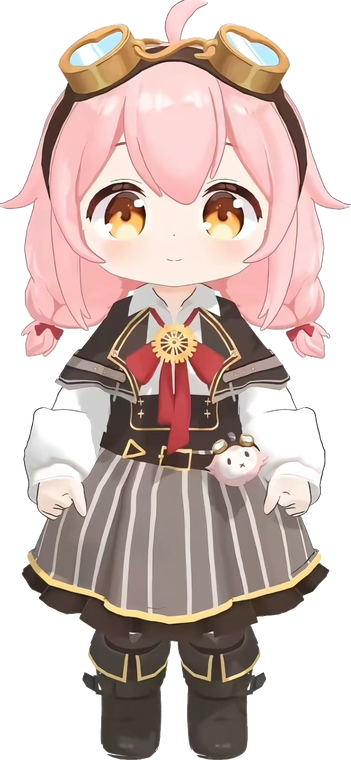
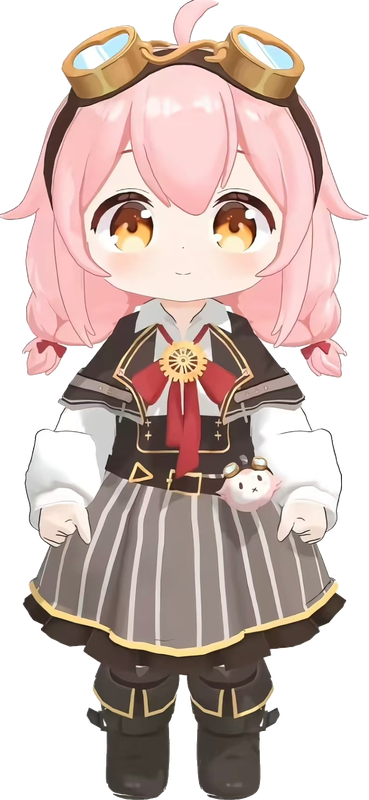
修角色尺寸：高 DPI 屏上整只跑到屏幕外，看着像没启动
资源 800px 高，原来按 1:1 画出去；但 200% 缩放的屏上 1 逻辑像素 = 2 物理像素，
于是占了整屏高度还把头顶到屏幕外。改成由 config 的 height（逻辑像素）决定画多大，
资源分辨率只影响清晰度、不影响大小。

同一个错误在腾空高度上犯了第二次：HOP 本来是写死的 12px，角色缩小后相对高度
翻三倍，呆毛被窗口顶边裁掉。现在动画里所有量都是比例，没有写死的像素。

另外：默认位置和恢复位置都会夹在屏幕内；首次运行弹一次操作提示。

diff --git a/taffy_pet/pet.py b/taffy_pet/pet.py
@@ -5,7 +5,7 @@
 """
 from pathlib import Path
 
-from PyQt5.QtCore import Qt, QPoint, QRectF, QTimer
+from PyQt5.QtCore import Qt, QRectF, QTimer
 from PyQt5.QtGui import QPainter, QPixmap
 from PyQt5.QtWidgets import QApplication, QInputDialog, QLineEdit, QMenu, QWidget
 
@@ -17,10 +17,14 @@ from .toast import Toast
 ROOT = Path(__file__).resolve().parent.parent
 ASSETS = ROOT / "assets"
 
-# 预留放大/弹跳的余量。呼吸(+0.8%)叠上弹跳拉伸(+3.0%)，760px 上最高长出约 29px，
-# 再加腾空 12px，42 够用。小了呆毛会在弹起那几帧被窗口顶边裁掉；
-# 但这个边距同时也是窗口挡桌面图标的面，所以别随手加大。
-MARGIN = 42
+# 边距是角色显示高度的比例，不是固定像素 —— 角色的放大/弹跳都是按比例缩放的，
+# 固定边距在角色调小之后会显得过大、调大之后又不够。
+#
+# 这个比例的来历：呼吸(+0.8%) 叠上弹跳拉伸(+3.0%) 是 3.8%，再加腾空（anim.py 的
+# HOP，1.6%），合起来 5.4%，留到 6.5% 有余量。小了呆毛会在弹起那几帧被窗口顶边
+# 裁掉；但这个边距同时也是窗口挡住周围桌面图标的面，所以别随手加大。
+# tools/smoke.py 会走完整条弹跳曲线来验这个余量够不够。
+MARGIN_RATIO = 0.065
 CLICK_SLOP = 6       # 位移小于这个像素数还算点击
 CLICK_MS = 500       # 按下超过这么久算长按，不算点击
 
@@ -45,7 +49,17 @@ class PetWindow(QWidget):
             raise SystemExit("assets/taffy.png 不存在，先跑 python tools/build_assets.py")
 
         self.setWindowOpacity(float(cfg.get("opacity", 1.0)))
-        self.resize(self.pix.width() + MARGIN * 2, self.pix.height() + MARGIN * 2)
+
+        # 目标显示高度是「逻辑像素」。资源本身是高分辨率（见 build_assets.py），
+        # 这里按比例缩到 height 逻辑像素 —— 高 DPI 屏上会自动铺满对应的物理像素。
+        #
+        # 之前这里直接 1:1 把资源画出去，结果 200% 缩放的屏上角色占了整屏 95% 高度，
+        # 头被顶到屏幕外，看着像「不在桌面上」。
+        self.disp_h = max(40.0, float(cfg.get("height", 200)))
+        self.disp_w = self.pix.width() * self.disp_h / self.pix.height()
+        self.margin = max(6.0, self.disp_h * MARGIN_RATIO)
+        self.resize(int(round(self.disp_w + self.margin * 2)),
+                    int(round(self.disp_h + self.margin * 2)))
 
         self.toast = Toast()
         self.fetcher = None
@@ -87,11 +101,21 @@ class PetWindow(QWidget):
         pos = self.cfg.get("pos")
         screen = QApplication.primaryScreen().availableGeometry()
         if isinstance(pos, (list, tuple)) and len(pos) == 2:
-            x, y = int(pos[0]), int(pos[1])
-            if screen.intersects(QRectF(x, y, self.width(), self.height()).toRect()):
-                self.move(x, y)
-                return
-        self.move(screen.right() - self.width() - 60, screen.bottom() - self.height() - 10)
+            x, y = self._clamp(int(pos[0]), int(pos[1]), screen)
+            self.move(x, y)
+            return
+        # 默认落在右下角，但要夹在屏幕内 —— 算出来是负坐标时角色会被顶到屏幕外，
+        # 看着就像「没启动」。
+        self.move(*self._clamp(screen.right() - self.width() - 60,
+                               screen.bottom() - self.height() - 10, screen))
+
+    def _clamp(self, x: int, y: int, screen) -> tuple:
+        """保证窗口至少有相当一部分留在屏幕内，别整只跑到屏幕外面去。"""
+        x = max(screen.left() - self.width() // 3,
+                min(x, screen.right() - self.width() * 2 // 3))
+        y = max(screen.top() - self.height() // 3,
+                min(y, screen.bottom() - self.height() * 2 // 3))
+        return x, y
 
     # ---------- 绘制 ----------
     def paintEvent(self, _event) -> None:
@@ -101,10 +125,11 @@ class PetWindow(QWidget):
         p = QPainter(self)
         p.setRenderHint(QPainter.SmoothPixmapTransform)
         w, h = self.width(), self.height()
-        p.translate(w / 2.0, h - MARGIN)      # 锚点：底部中心
+        m = self.margin
+        p.translate(w / 2.0, h - m)           # 锚点：底部中心
         p.scale(sx, sy)
-        p.translate(-w / 2.0, -(h - MARGIN) + dy)
-        p.drawPixmap(MARGIN, MARGIN, src)
+        p.translate(-w / 2.0, -(h - m) + dy * self.disp_h)
+        p.drawPixmap(QRectF(m, m, self.disp_w, self.disp_h), src, QRectF(src.rect()))
 
     # ---------- 交互 ----------
     def mousePressEvent(self, e) -> None:

diff --git a/tools/smoke.py b/tools/smoke.py
@@ -15,7 +15,7 @@ from PyQt5.QtWidgets import QApplication  # noqa: E402
 
 from taffy_pet import config as cfgmod  # noqa: E402
 from taffy_pet import anim as animmod  # noqa: E402
-from taffy_pet.pet import MARGIN, PetWindow  # noqa: E402
+from taffy_pet.pet import PetWindow  # noqa: E402
 
 
 def check_bounds(pet) -> bool:
@@ -23,8 +23,10 @@ def check_bounds(pet) -> bool:
 
     解析地算，不依赖渲染 —— 截图看不出「小了一点」是设计还是 bug。
     """
-    pw, ph = pet.pix.width(), pet.pix.height()
+    # 用实际绘制尺寸而不是资源像素 —— 资源是高分辨率的，和屏幕上的大小不是一回事
+    pw, ph = pet.disp_w, pet.disp_h
     win_w, win_h = pet.width(), pet.height()
+    M = pet.margin
     ok = True
 
     worst = {"left": float("inf"), "right": float("-inf"),
@@ -34,10 +36,10 @@ def check_bounds(pet) -> bool:
         # 锚点是底部中心；加上呼吸的最坏偏移
         sy += animmod.BREATH_AMP
         half = pw / 2.0 * sx
-        worst["left"] = min(worst["left"], MARGIN + pw / 2.0 - half)
-        worst["right"] = max(worst["right"], MARGIN + pw / 2.0 + half)
-        worst["top"] = min(worst["top"], MARGIN + ph - ph * sy + dy)
-        worst["bottom"] = max(worst["bottom"], MARGIN + ph + dy)
+        worst["left"] = min(worst["left"], M + pw / 2.0 - half)
+        worst["right"] = max(worst["right"], M + pw / 2.0 + half)
+        worst["top"] = min(worst["top"], M + ph - ph * sy + dy * ph)
+        worst["bottom"] = max(worst["bottom"], M + ph + dy * ph)
         lo_sy, hi_sy = min(lo_sy, sy), max(hi_sy, sy)
 
     if worst["left"] < 0 or worst["right"] > win_w:
@@ -49,7 +51,7 @@ def check_bounds(pet) -> bool:
     if ok:
         print(f"  ✓ 边界安全：x {worst['left']:.1f}..{worst['right']:.1f} / "
               f"y {worst['top']:.1f}..{worst['bottom']:.1f}"
-              f"（窗口 {win_w}x{win_h}，边距 {MARGIN}）")
+              f"（窗口 {win_w}x{win_h}，边距 {M:.1f}）")
 
     # 幅度太小就等于没动画。压扁 5% 起步，肉眼才看得出。
     squash = 1.0 - lo_sy

diff --git a/taffy_pet/anim.py b/taffy_pet/anim.py
@@ -21,7 +21,11 @@ BREATH_AMP = 0.008       # 纵向起伏幅度
 BREATH_WIDE = 0.45       # 横向反向幅度（大致保持体积不变）
 
 BOUNCE_MS = 620          # 一次点击弹跳的总时长
-HOP_PX = 12              # 腾空高度（像素）
+HOP = 0.016              # 腾空高度，占角色高度的比例
+
+# 这里所有量都是比例，没有写死的像素 —— 角色显示大小由 config 的 height 决定，
+# 换个尺寸就得让动画跟着等比缩放。之前 HOP 是写死的 12px，角色从 760px 缩到
+# 200px 之后这一跳相对高度翻了三倍，呆毛直接被窗口顶边裁掉。
 
 # (进度, 纵向缩放, 横向缩放, 离地比例)
 # 先压扁 -> 蹬地窜起并拉长 -> 滞空 -> 落地压回 -> 复位
@@ -63,7 +67,7 @@ def bounce_curve(steps: int = 400):
     out = []
     for i in range(steps + 1):
         sy, sx, lift = _sample(i / steps)
-        out.append((sx, sy, -lift * HOP_PX))
+        out.append((sx, sy, -lift * HOP))
     return out
 
 
@@ -133,7 +137,10 @@ class PetAnimator(QObject):
 
     # ---------- 给窗口取用 ----------
     def state(self):
-        """返回 (横向缩放, 纵向缩放, 纵向位移, 是否闭眼)。"""
+        """返回 (横向缩放, 纵向缩放, 纵向位移比例, 是否闭眼)。
+
+        位移是「占角色高度的比例」而不是像素 —— 角色显示大小可配，像素量会跟着变。
+        """
         breath = math.sin(self._t * 2 * math.pi / BREATH_PERIOD)
         sy = sx = 1.0
         dy = 0.0

diff --git a/tools/build_assets.py b/tools/build_assets.py
@@ -32,8 +32,12 @@ INSET = 8         # 裁掉外圈深灰边框
 CHROMA_MAX = 14   # 彩度低于此值 = 无彩色（白底/灰噪声/投影）
 BRIGHT_MIN = 170  # 亮度高于此值 = 亮（投影灰 193 会被清掉）
 
-DISPLAY_HEIGHT = 380   # 屏幕上的显示高度
-ASSET_SCALE = 2        # 素材按 2 倍存，缩放时更清晰
+# 素材分辨率按「默认显示高度 × 4」存：
+#   2 倍是给高 DPI 屏的（200% 缩放下 1 逻辑像素 = 2 物理像素），
+#   再留一倍余量，这样用户把 config.json 的 height 调大也不会糊。
+# 桌宠实际画多大由 pet.py 按 height 缩放，跟这里的像素数没关系。
+DISPLAY_HEIGHT = 200
+ASSET_SCALE = 4
 
 # --- 闭眼帧参数 ---
 LASH_THICK = 0.16    # 睫毛线宽 / 眼高

diff --git a/taffy_pet/config.py b/taffy_pet/config.py
@@ -16,7 +16,10 @@ ENV_KEY = "DEEPSEEK_API_KEY"
 
 DEFAULTS = {
     "api_key": "",
-    "height": 380,          # 角色在屏幕上的高度（像素）
+    # 角色在屏幕上的高度，单位是「逻辑像素」：和 Qt 的窗口坐标同一套单位，
+    # 会跟着 Windows 的缩放比例走。200% 缩放的屏上，200 逻辑像素 = 400 物理像素。
+    # 想让她更大/更小就改这个数。
+    "height": 200,
     "opacity": 1.0,
     "always_on_top": True,
     "blink": True,

diff --git a/README.md b/README.md
@@ -35,8 +35,13 @@ python main.py
 
 `config.json` 已经在 `.gitignore` 里。**Key 不会被提交。**
 
-其余配置项（角色高度、音量、透明度、默认位置等）也都在 `config.json`，
-删掉该文件会恢复默认值。
+### 调大小
+
+`config.json` 里的 `height` 是**角色在屏幕上的高度**，默认 200，单位是「逻辑像素」
+（和 Qt 的窗口坐标同一套单位，会跟着 Windows 缩放比例走）。你屏幕是 200% 缩放，
+所以 200 逻辑像素 = 屏幕上 400 物理像素 ≈ 整屏高度的四分之一。觉得大了小了改这个数就行。
+
+其余配置项（音量、透明度、默认位置等）也都在 `config.json`，删掉该文件会恢复默认值。
 
 ## 重新生成素材
 
@@ -102,13 +107,27 @@ python tools/extract_audio.py <视频路径> click
 
 改成关键帧后压扁/腾空/落地分开写，每档幅度能算准，也能在测试里断言。
 
+### 尺寸：高 DPI 屏上差点整只跑到屏幕外
+
+资源是 800px 高的高分辨率图，最早是按 1:1 画出去的，想着「反正资源就是显示尺寸」。
+但在 200% 缩放的屏上，1 个逻辑像素 = 2 个物理像素，于是 800 逻辑像素 = 1600 物理像素
+—— 正好占满整块屏，头还被顶到屏幕上方，看着像「程序根本没启动」。用户就是这么报的。
+
+修法是让资源像素和显示尺寸彻底脱钩：`config.json` 的 `height`（逻辑像素）决定画多大，
+`pet.py` 按比例缩放。资源分辨率只影响清晰度，不影响大小。
+
+连带的：**动画里所有量都必须是比例，不能有写死的像素**。同一个错误还在腾空高度上犯了
+第二次 —— `HOP` 本来是写死的 12px，角色从 760px 缩到 200px 之后这一跳的相对高度翻了
+三倍，呆毛直接被窗口顶边裁掉。现在 `HOP` 是「占角色高度的比例」。
+
 ### 窗口边距是个权衡
 
 拉伸会让角色向上长高，长多少就得在窗口里预留多少透明边距，否则呆毛会被窗口顶边裁掉。
 但边距同时也是窗口挡住周围桌面图标的面，所以不能随便加大。
-现在取 42px（`pet.py` 的 `MARGIN`），拉伸峰值也顺势压在 1.03 而不是更大。
 
-`tools/smoke.py` 会走完整条弹跳曲线验证不会溢出，并断言压扁幅度 ≥5%。
+边距取角色高度的 6.5%（`pet.py` 的 `MARGIN_RATIO`）：呼吸 0.8% + 弹跳拉伸 3.0% +
+腾空 1.6% = 5.4%，留了余量。这个比例同样是量出来的，`tools/smoke.py` 会走完整条弹跳
+曲线验证不溢出，并断言压扁幅度 ≥5%。
 
 ## 自检
 
